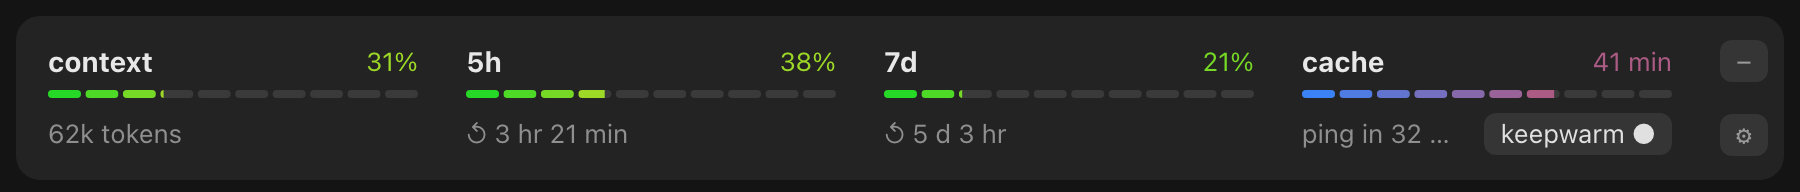
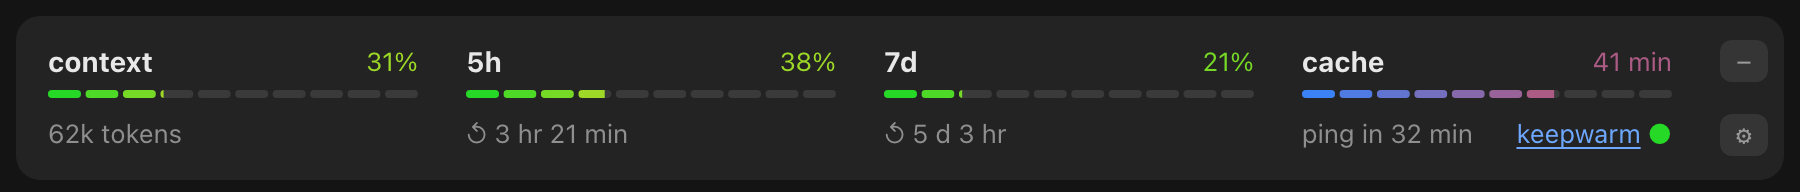
README: keepwarm link and dot on the cache card, new screenshots

Changed region(s): [[0.7778, 0.625, 0.9333, 0.7812]]

diff --git a/docs/screenshots.ts b/docs/screenshots.ts
@@ -59,7 +59,8 @@ function band(s: State): string {
     return `<div class="band slim"><div class="cards center">${mini(s.context)}${mini(s.fiveHour)}${mini(s.weekly)}${mini(cachePercent, 'cache')}` +
       `${button('+', true)}</div></div>`
   }
-  const toggle = button(s.keepwarm ? 'keepwarm ●' : 'keepwarm ○', !s.keepwarm)
+  // keepwarm is a link that toggles it, the dot its state: green on, red off.
+  const toggle = `<span class="kw"><span class="kwlink">keepwarm</span> <span style="color:${segmentColor(s.keepwarm ? 0 : SEGMENTS - 1)}">●</span></span>`
   const cache = s.cache === 'cold'
     ? card('cache', 0, 'cold', STRINGS.rewrites(`${Math.round(s.tokens / 1000)}k`), 'cache', toggle)
     : card('cache', (s.cache.left / (60 * MIN)) * 100, duration(s.cache.left), s.cache.note, 'cache', toggle)
@@ -141,7 +142,9 @@ body{background:#141414;padding:8px;font:13px/1.45 -apple-system,BlinkMacSystemF
 .band.slim{padding:6px 8px 6px 16px}
 .cards.center{align-items:center}
 .mini{flex:1 1 0;min-width:0;display:flex}
-.side{display:flex;flex-direction:column;justify-content:space-between;align-items:center}
+.side{display:flex;flex-direction:column;justify-content:space-between;align-items:center;gap:8px}
+.kw{white-space:nowrap}
+.kwlink{color:#6ea8fe;text-decoration:underline;text-underline-offset:2px}
 .card{flex:1 1 0;min-width:0;display:flex;flex-direction:column;gap:3px}
 .row{display:flex;justify-content:space-between;align-items:center;gap:8px;min-height:22px}
 .row b{font-size:14px}

diff --git a/README.md b/README.md
@@ -5,7 +5,7 @@ A Claude Code mod that puts your usage above the prompt, and helps you act on it
 ![The band](docs/band.png)
 
 - **Four cards**: context, 5-hour limit, 7-day limit and prompt cache. Each has a thin bar of ten steps that fill in part and run from green to red; the cache card runs from red (just written) to blue (about to expire).
-- **keepwarm**: a toggle on the cache card, or `/keepwarm [on|off]`. While on, a minimal request re-reads the cache shortly before it expires, for up to 6 hours after your last message. It applies to the session you turn it on in, and every new session starts with it off. Each ping costs tokens and counts toward your limits; a compaction rewrites the cache, so it stops pinging until your next turn.
+- **keepwarm**: click **keepwarm** on the cache card (the dot is green when on, red when off), switch it in the settings pane, or run `/keepwarm [on|off]`. While on, a minimal request re-reads the cache shortly before it expires, for up to 6 hours after your last message. It applies to the session you turn it on in, and every new session starts with it off. Each ping costs tokens and counts toward your limits; a compaction rewrites the cache, so it stops pinging until your next turn.
 - **Handoff**: `/handoff [what to keep]`, or the Handoff button that appears past 250k tokens (with **+** to say what matters most). The model writes a summary of goal, plan, decisions, files touched and commit/deploy state; it opens in a pane of its own, in Markdown, to review; then the mod runs `/clear` and sends the summary as the first message of a clean conversation. Nothing is written to your project. The old conversation stays available through `/resume`.
 - **Context guard**: a warning at 250k tokens with a **Compact now** button, a red warning at 300k (a warning only: it does not compact), and automatic compaction at the end of a turn above 85% of the window. All three are settings.
 - **Minimized view**: **−** above the ⚙ shrinks the band to one row with the four bars alone, thinner and without text; **+** brings the cards back. The choice is kept for the next sessions.
@@ -17,7 +17,7 @@ Reset times read as in Claude's own usage panel: `2 hr 23 min`, `4 d 16 hr`.
 
 The images in this README are rendered from the mod's own bars, colors and strings with `docs/screenshots.ts`, since each state takes a long session to reach; the band in Claude Code draws the same elements in its own fonts.
 
-**keepwarm on**: the cache card counts down to the next ping.
+**keepwarm on**: the dot turns green and the cache card counts down to the next ping.
 
 ![keepwarm on](docs/keepwarm.png)
 
